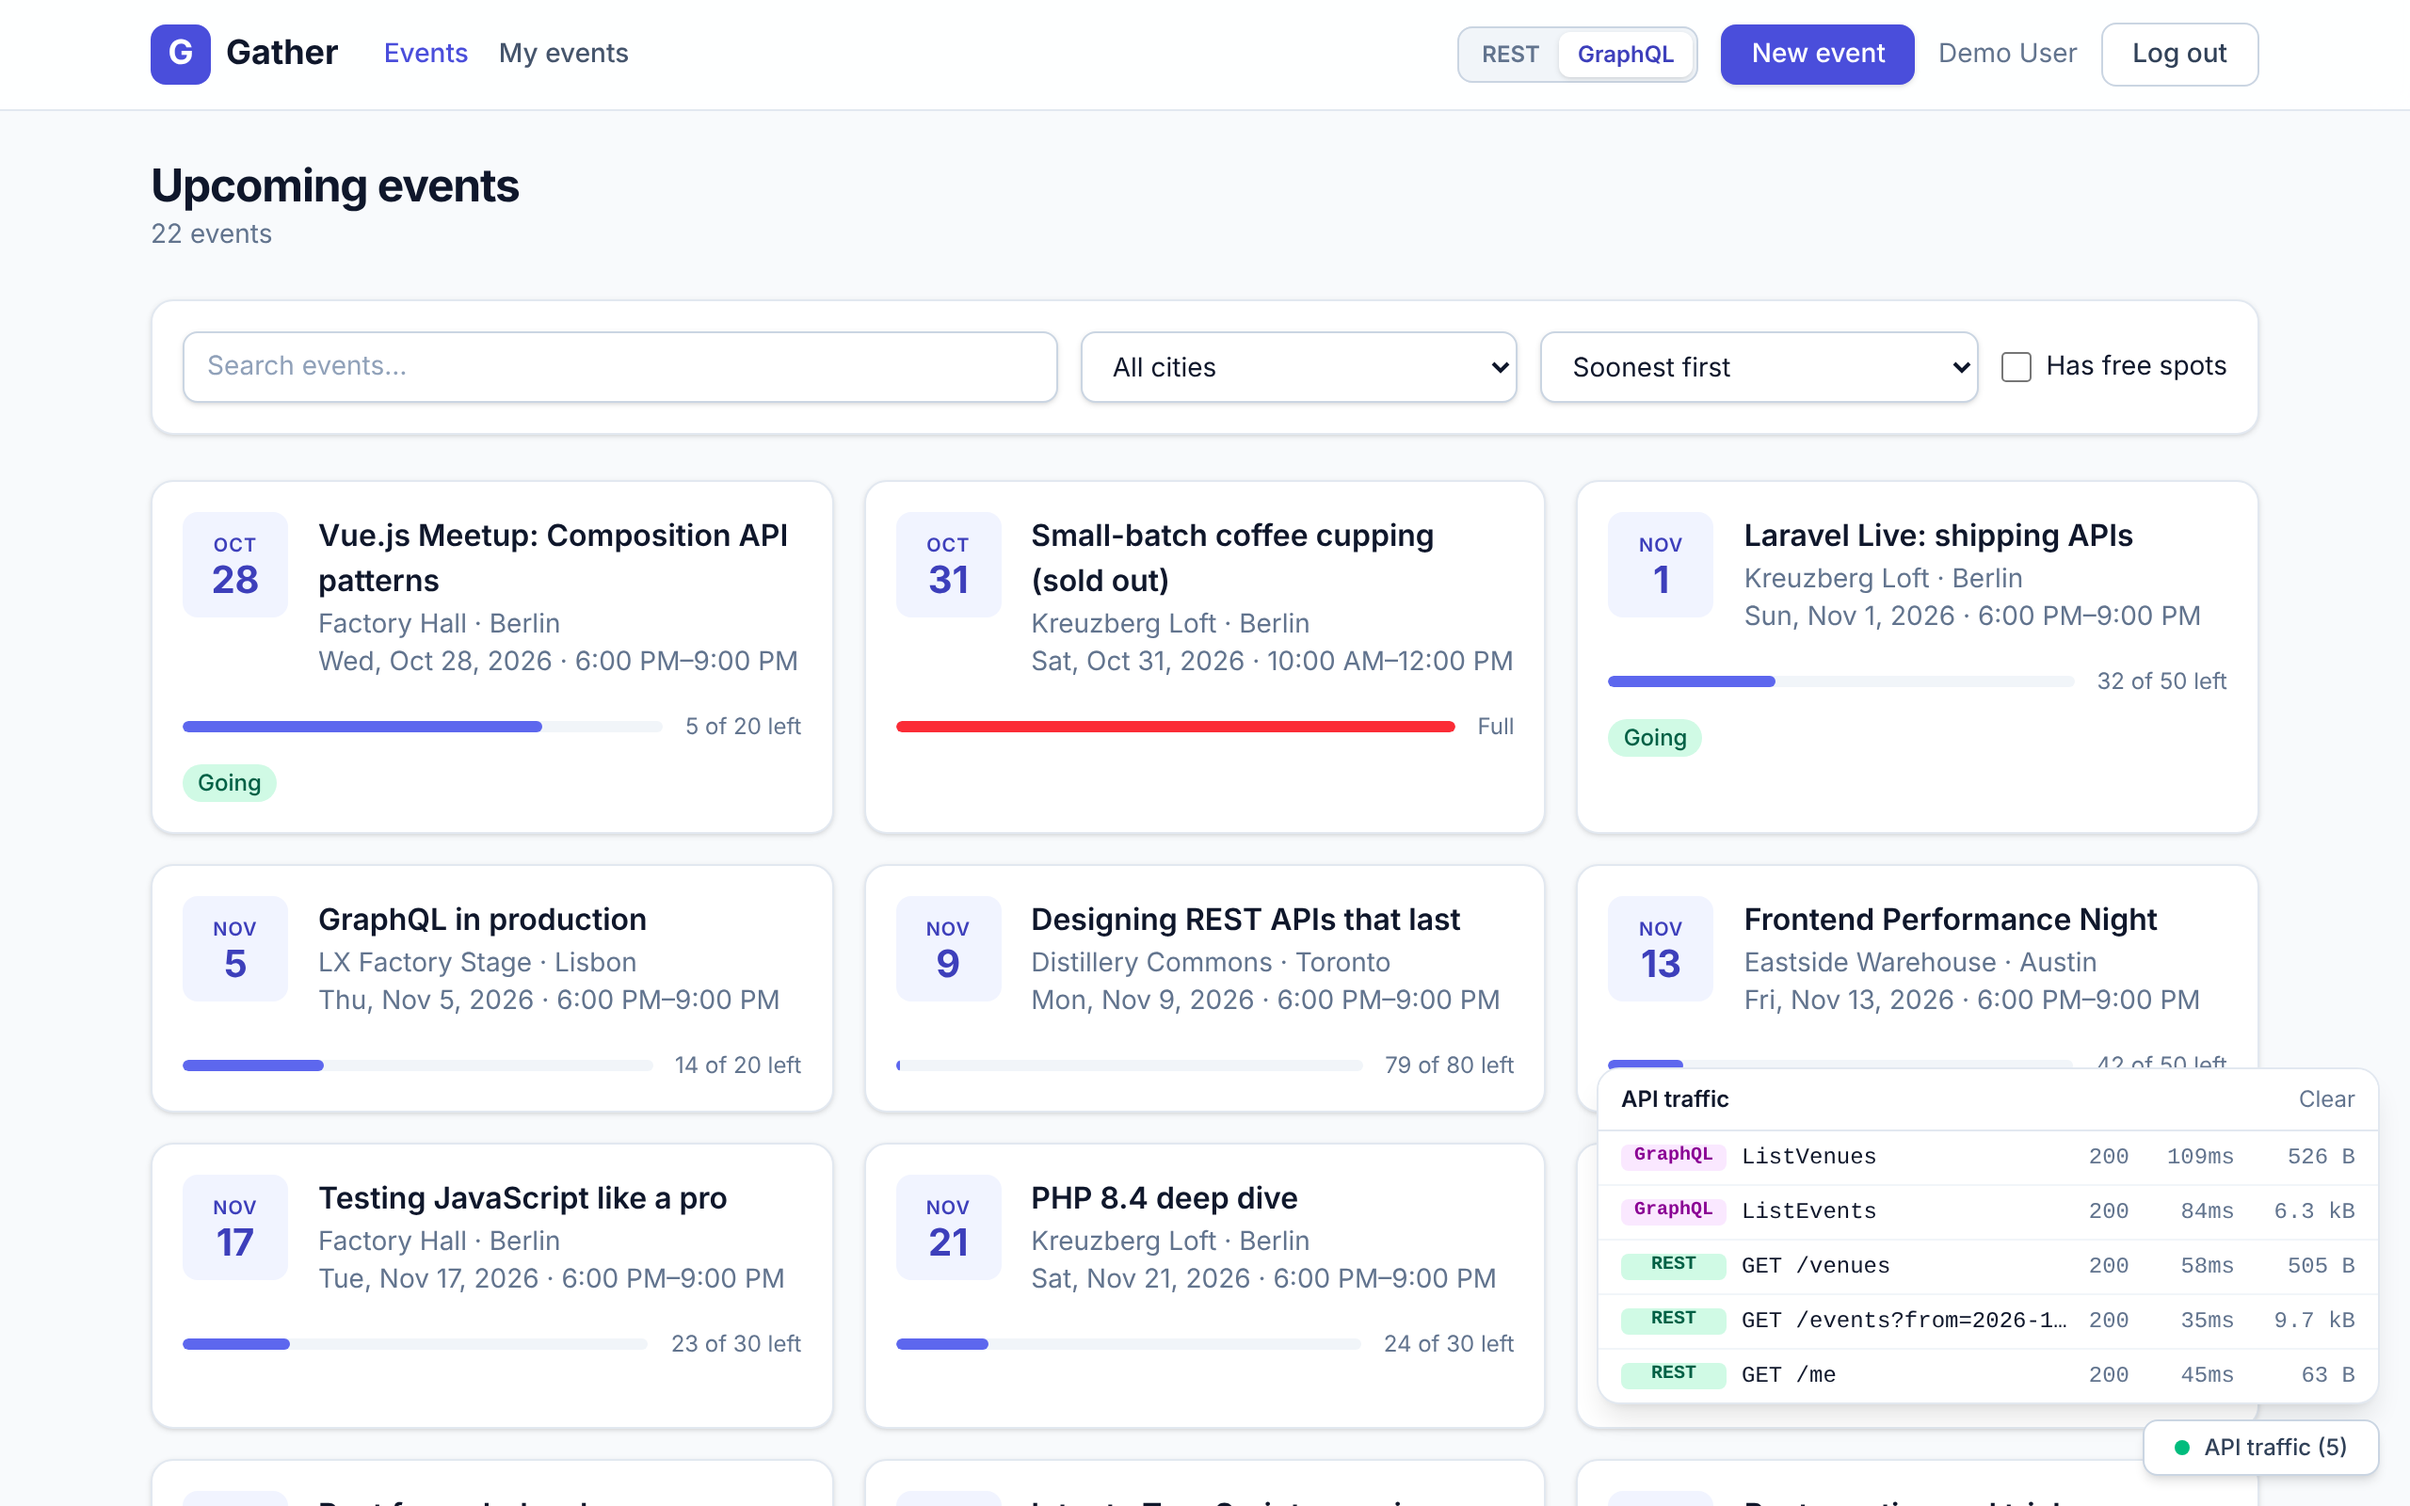
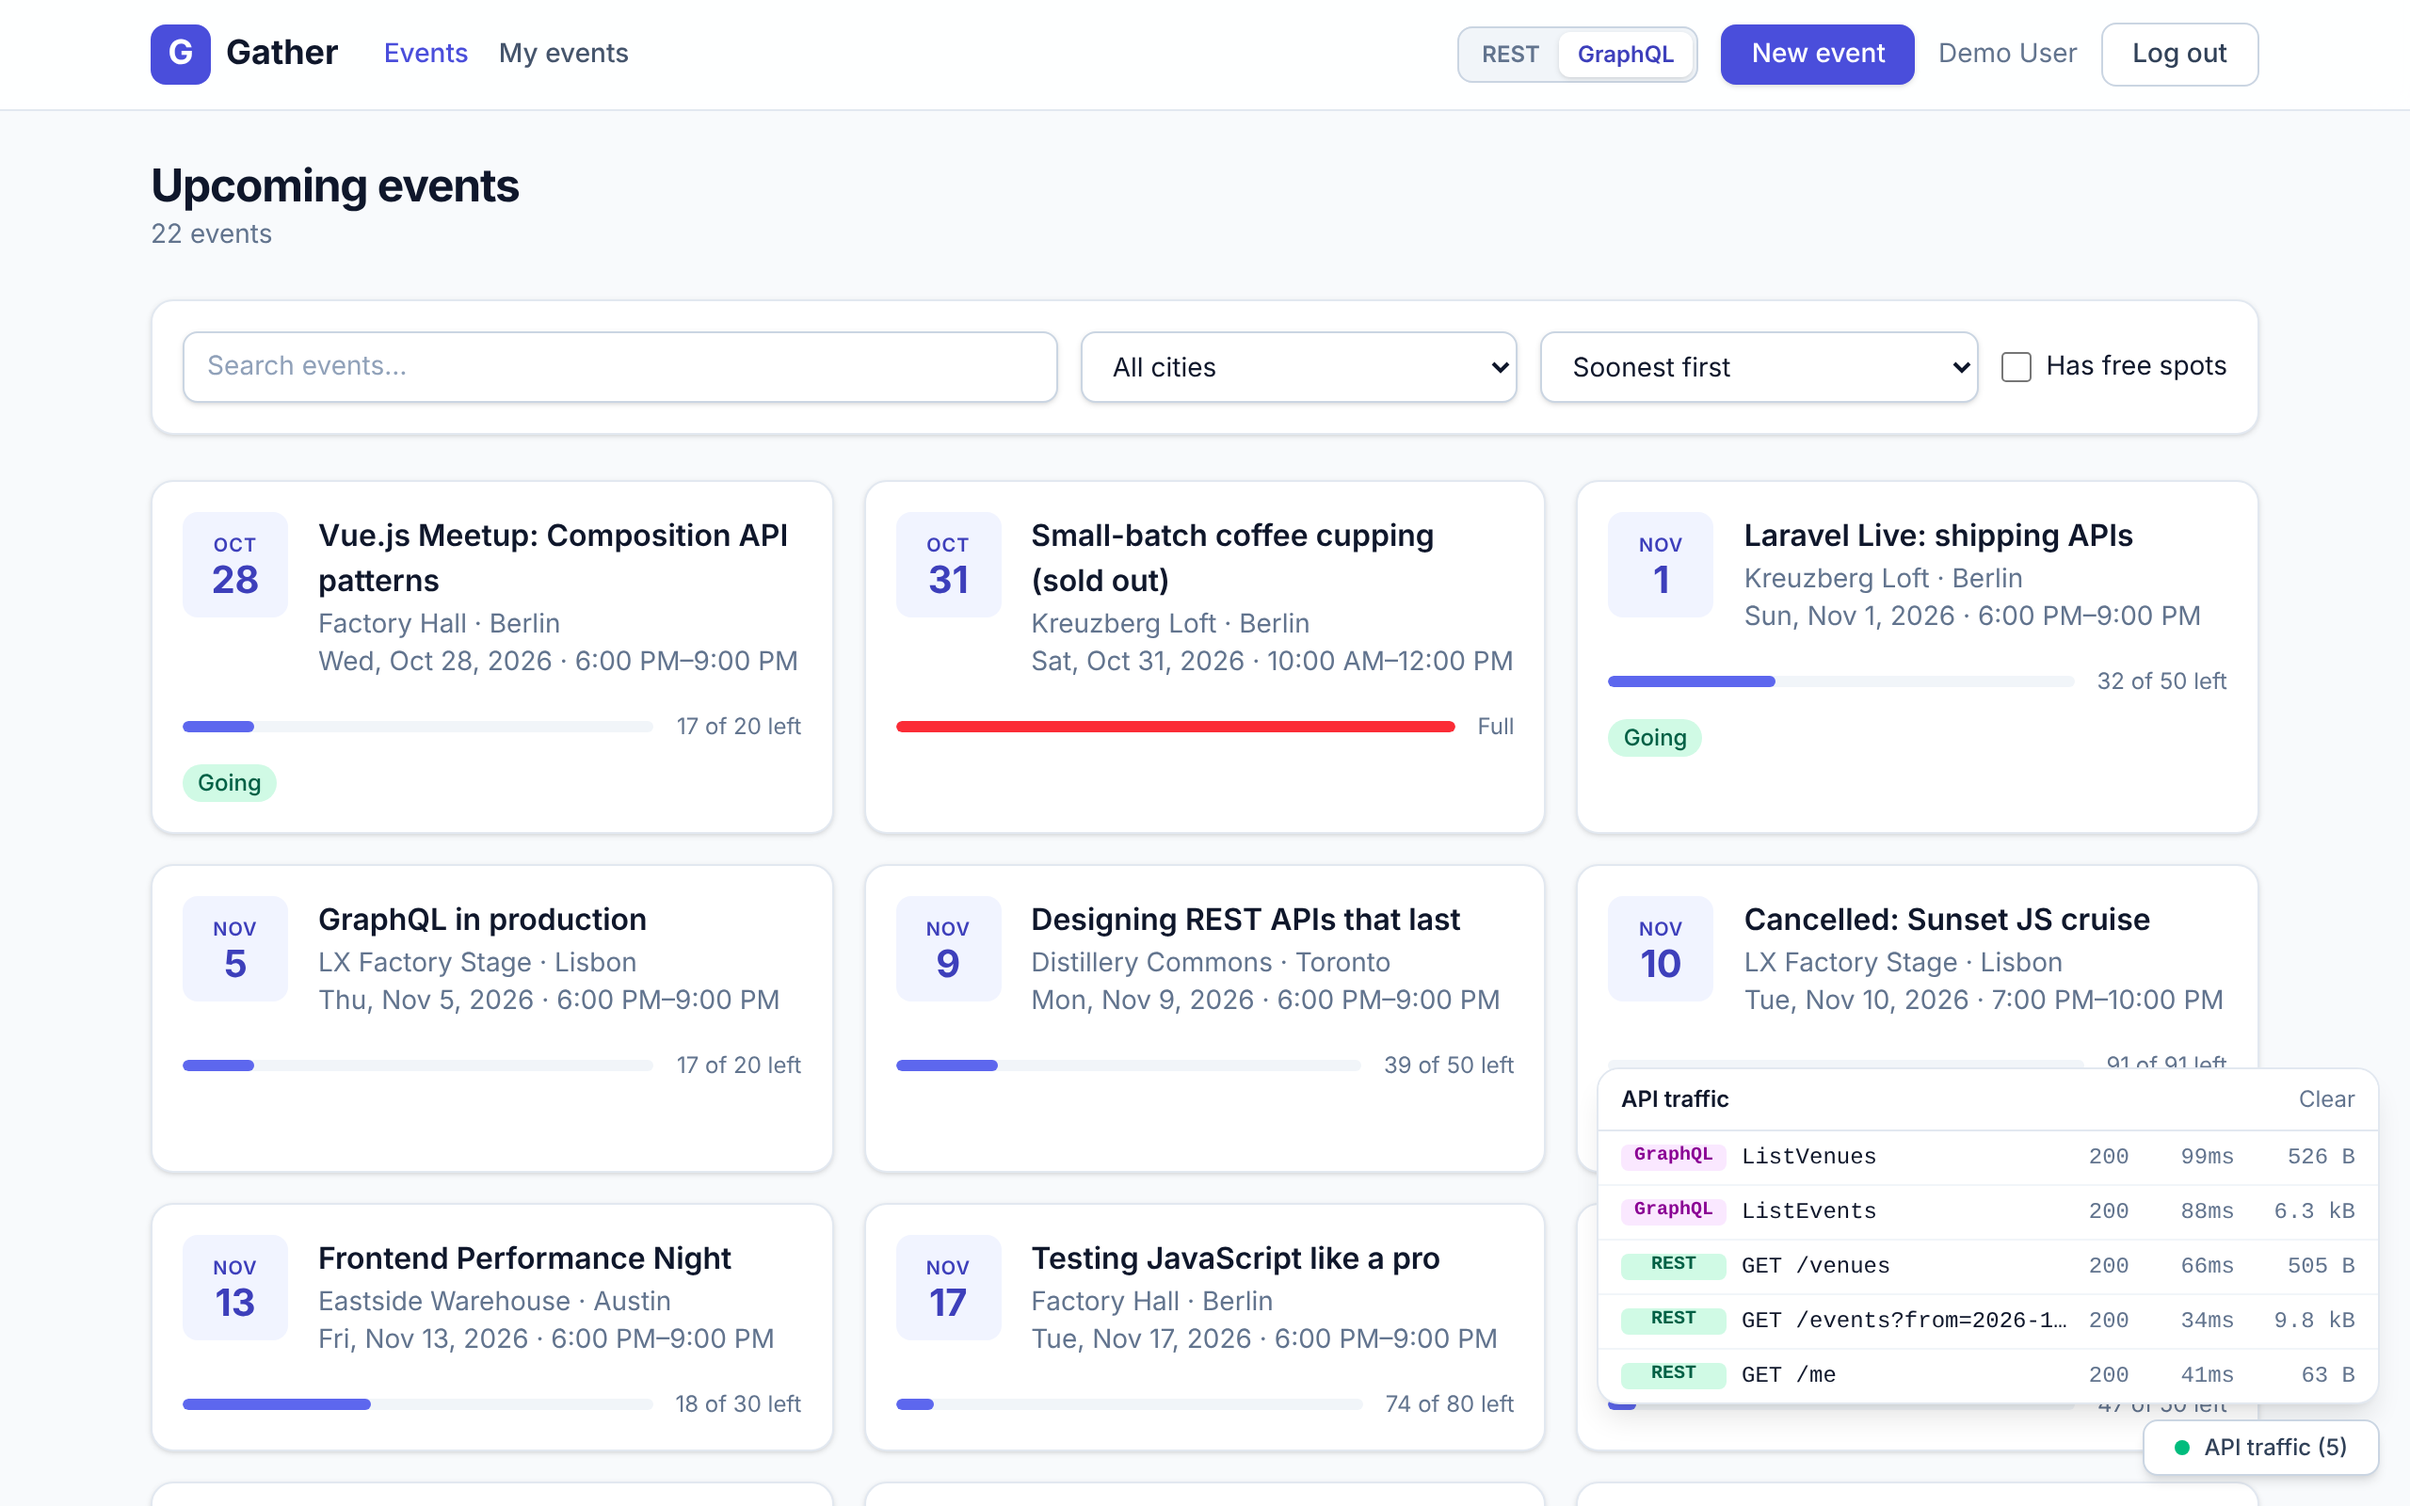
Tidy loose ends: GraphQL error codes, demo times, stateless config
- GraphQL policy denials now carry extensions.code (FORBIDDEN, or NOT_FOUND
  for denyAsNotFound) like the domain errors do, so the SPA maps them to a
  status without matching Lighthouse's English message.
- Give the demo user's events and the cancelled cruise fixed, plausible times
  (the GIF showed random factory times like 8:47 AM); screenshots recaptured.
- Drop the unused sessions table and Sanctum's stateful domains and session
  guard: the API authenticates with bearer tokens only.
- EventFactory's default capacity never exceeds its venue's.

Claude-Session: https://claude.ai/code/session_01FN1ajT4iFqyYFz3RJnmQbN

diff --git a/web/src/api/graphql.ts b/web/src/api/graphql.ts
@@ -142,10 +142,6 @@ export function fromGraphQLError(error: GraphQLError): ApiError {
   if (ext.guards !== undefined || ext.category === 'authentication') {
     return new ApiError('unauthenticated', error.message, 401)
   }
-  // Lighthouse 6 gives authorization errors no extensions, so its fixed message is the only marker.
-  if (ext.category === 'authorization' || error.message === 'This action is unauthorized.') {
-    return new ApiError('forbidden', error.message, 403)
-  }
   if (ext.code) {
     const code = ext.code.toLowerCase()
     return new ApiError(code, error.message, STATUS_BY_CODE[code] ?? 409)

diff --git a/web/src/__tests__/graphql.spec.ts b/web/src/__tests__/graphql.spec.ts
@@ -90,7 +90,8 @@ describe('graphql client', () => {
     ['EVENT_FULL', 'event_full', 409],
     ['REGISTRATION_CLOSED', 'registration_closed', 409],
     ['NOT_FOUND', 'not_found', 404],
-  ])('gives business error %s the status REST would use', async (code, apiCode, status) => {
+    ['FORBIDDEN', 'forbidden', 403],
+  ])('gives error code %s the status REST would use', async (code, apiCode, status) => {
     respond(
       JSON.stringify({ data: null, errors: [{ message: 'Nope.', extensions: { code } }] }),
       200,

diff --git a/api/database/seeders/DatabaseSeeder.php b/api/database/seeders/DatabaseSeeder.php
@@ -83,16 +83,22 @@ class DatabaseSeeder extends Seeder
 
         Event::factory()->for($organizers[1], 'organizer')->for($venues[2])->cancelled()->create([
             'title' => 'Cancelled: Sunset JS cruise',
+            'starts_at' => now()->addDays(16)->setTime(19, 0),
+            'ends_at' => now()->addDays(16)->setTime(22, 0),
             'description' => 'Lightning talks on the river at sunset. Cancelled because of the weather forecast; we will be back in spring.',
         ]);
 
         // The demo user organizes one published event and one draft, and attends a few.
         Event::factory()->for($demo, 'organizer')->for($venues[0])->create([
             'title' => 'Demo User’s API design workshop',
+            'starts_at' => now()->addDays(55)->setTime(9, 0),
+            'ends_at' => now()->addDays(55)->setTime(13, 0),
             'description' => 'A half-day workshop: design a small REST API from a user story, write its OpenAPI contract and review each other\'s designs.',
         ]);
         Event::factory()->for($demo, 'organizer')->for($venues[3])->draft()->create([
             'title' => 'Draft: Spring hack night',
+            'starts_at' => now()->addDays(80)->setTime(18, 0),
+            'ends_at' => now()->addDays(80)->setTime(22, 0),
             'description' => 'An evening of building whatever you like, with mentors on hand. Details to follow.',
         ]);
 

diff --git a/api/tests/Feature/GraphQL/GraphQLTest.php b/api/tests/Feature/GraphQL/GraphQLTest.php
@@ -154,7 +154,9 @@ class GraphQLTest extends TestCase
         $mutation = /** @lang GraphQL */ 'mutation ($id: ID!) { updateEvent(id: $id, input: { title: "Renamed" }) { title } }';
 
         Sanctum::actingAs(User::factory()->create());
-        $this->graphQL($mutation, ['id' => $event->id])->assertGraphQLErrorMessage('This action is unauthorized.');
+        $this->graphQL($mutation, ['id' => $event->id])
+            ->assertGraphQLErrorMessage('This action is unauthorized.')
+            ->assertJsonPath('errors.0.extensions.code', 'FORBIDDEN');
 
         Sanctum::actingAs($event->organizer);
         $this->graphQL($mutation, ['id' => $event->id])->assertJsonPath('data.updateEvent.title', 'Renamed');
@@ -195,7 +197,9 @@ class GraphQLTest extends TestCase
         $query = /** @lang GraphQL */ 'query ($id: ID!) { event(id: $id) { attendees { data { user { name } } } } }';
 
         Sanctum::actingAs(User::factory()->create());
-        $this->graphQL($query, ['id' => $event->id])->assertGraphQLErrorMessage('This action is unauthorized.');
+        $this->graphQL($query, ['id' => $event->id])
+            ->assertGraphQLErrorMessage('This action is unauthorized.')
+            ->assertJsonPath('errors.0.extensions.code', 'FORBIDDEN');
 
         Sanctum::actingAs($event->organizer);
         $this->graphQL($query, ['id' => $event->id])->assertJsonCount(2, 'data.event.attendees.data');

diff --git a/api/app/GraphQL/AuthorizationErrorHandler.php b/api/app/GraphQL/AuthorizationErrorHandler.php
@@ -1,0 +1,36 @@
+<?php
+
+namespace App\GraphQL;
+
+use Closure;
+use GraphQL\Error\Error;
+use Illuminate\Auth\Access\AuthorizationException;
+use Nuwave\Lighthouse\Execution\ErrorHandler;
+
+/**
+ * Gives policy denials a machine-readable `extensions.code`, like the domain errors
+ * have: FORBIDDEN, or NOT_FOUND for a denyAsNotFound() response. Clients can then
+ * map them to the same status the REST API would use, without matching messages.
+ */
+class AuthorizationErrorHandler implements ErrorHandler
+{
+    public function __invoke(?Error $error, Closure $next): ?array
+    {
+        $denied = $error?->getPrevious();
+
+        if (! $denied instanceof AuthorizationException) {
+            return $next($error);
+        }
+
+        $code = $denied->status() === 404 ? 'NOT_FOUND' : 'FORBIDDEN';
+
+        return $next(new Error(
+            $error->getMessage(),
+            $error->getNodes(),
+            $error->getSource(),
+            $error->getPositions(),
+            $error->getPath(),
+            new PolicyDenied($error->getMessage(), $code),
+        ));
+    }
+}

diff --git a/api/config/sanctum.php b/api/config/sanctum.php
@@ -3,7 +3,6 @@
 use Illuminate\Cookie\Middleware\EncryptCookies;
 use Illuminate\Foundation\Http\Middleware\ValidateCsrfToken;
 use Laravel\Sanctum\Http\Middleware\AuthenticateSession;
-use Laravel\Sanctum\Sanctum;
 
 return [
 
@@ -18,12 +17,9 @@ return [
     |
     */
 
-    'stateful' => explode(',', env('SANCTUM_STATEFUL_DOMAINS', sprintf(
-        '%s%s',
-        'localhost,localhost:3000,127.0.0.1,127.0.0.1:8000,::1',
-        Sanctum::currentApplicationUrlWithPort(),
-        // Sanctum::currentRequestHost(),
-    ))),
+    // Gather authenticates with bearer tokens only, so no origin gets cookie-based
+    // (stateful) authentication.
+    'stateful' => [],
 
     /*
     |--------------------------------------------------------------------------
@@ -37,7 +33,8 @@ return [
     |
     */
 
-    'guard' => ['web'],
+    // No session guard: only the bearer token on the request is checked.
+    'guard' => [],
 
     /*
     |--------------------------------------------------------------------------

diff --git a/api/database/migrations/0001_01_01_000000_create_users_table.php b/api/database/migrations/0001_01_01_000000_create_users_table.php
@@ -26,15 +26,6 @@ return new class extends Migration
             $table->string('token');
             $table->timestamp('created_at')->nullable();
         });
-
-        Schema::create('sessions', function (Blueprint $table) {
-            $table->string('id')->primary();
-            $table->foreignId('user_id')->nullable()->index();
-            $table->string('ip_address', 45)->nullable();
-            $table->text('user_agent')->nullable();
-            $table->longText('payload');
-            $table->integer('last_activity')->index();
-        });
     }
 
     /**
@@ -44,6 +35,5 @@ return new class extends Migration
     {
         Schema::dropIfExists('users');
         Schema::dropIfExists('password_reset_tokens');
-        Schema::dropIfExists('sessions');
     }
 };

diff --git a/api/app/GraphQL/PolicyDenied.php b/api/app/GraphQL/PolicyDenied.php
@@ -1,0 +1,31 @@
+<?php
+
+namespace App\GraphQL;
+
+use GraphQL\Error\ClientAware;
+use GraphQL\Error\ProvidesExtensions;
+use RuntimeException;
+
+/**
+ * A policy denial as GraphQL reports it: the policy's message plus a stable code.
+ */
+class PolicyDenied extends RuntimeException implements ClientAware, ProvidesExtensions
+{
+    public function __construct(string $message, private string $errorCode)
+    {
+        parent::__construct($message);
+    }
+
+    public function isClientSafe(): bool
+    {
+        return true;
+    }
+
+    /**
+     * @return array{code: string}
+     */
+    public function getExtensions(): array
+    {
+        return ['code' => $this->errorCode];
+    }
+}

diff --git a/api/database/factories/EventFactory.php b/api/database/factories/EventFactory.php
@@ -29,7 +29,8 @@ class EventFactory extends Factory
             'description' => fake()->paragraph(),
             'starts_at' => $startsAt,
             'ends_at' => (clone $startsAt)->modify('+3 hours'),
-            'capacity' => fake()->numberBetween(10, 100),
+            // Never more than the venue holds, like the API's own FitsVenue rule.
+            'capacity' => fn (array $attributes) => min(fake()->numberBetween(10, 100), Venue::findOrFail($attributes['venue_id'])->capacity),
             'status' => EventStatus::Published,
         ];
     }

diff --git a/api/config/lighthouse.php b/api/config/lighthouse.php
@@ -1,10 +1,10 @@
 <?php
 
 declare(strict_types=1);
+use App\GraphQL\AuthorizationErrorHandler;
 use GraphQL\Error\DebugFlag;
 use GraphQL\Validator\Rules\DisableIntrospection;
 use Nuwave\Lighthouse\Execution\AuthenticationErrorHandler;
-use Nuwave\Lighthouse\Execution\AuthorizationErrorHandler;
 use Nuwave\Lighthouse\Execution\ReportingErrorHandler;
 use Nuwave\Lighthouse\Execution\ValidationErrorHandler;
 use Nuwave\Lighthouse\Http\Middleware\AcceptJson;
